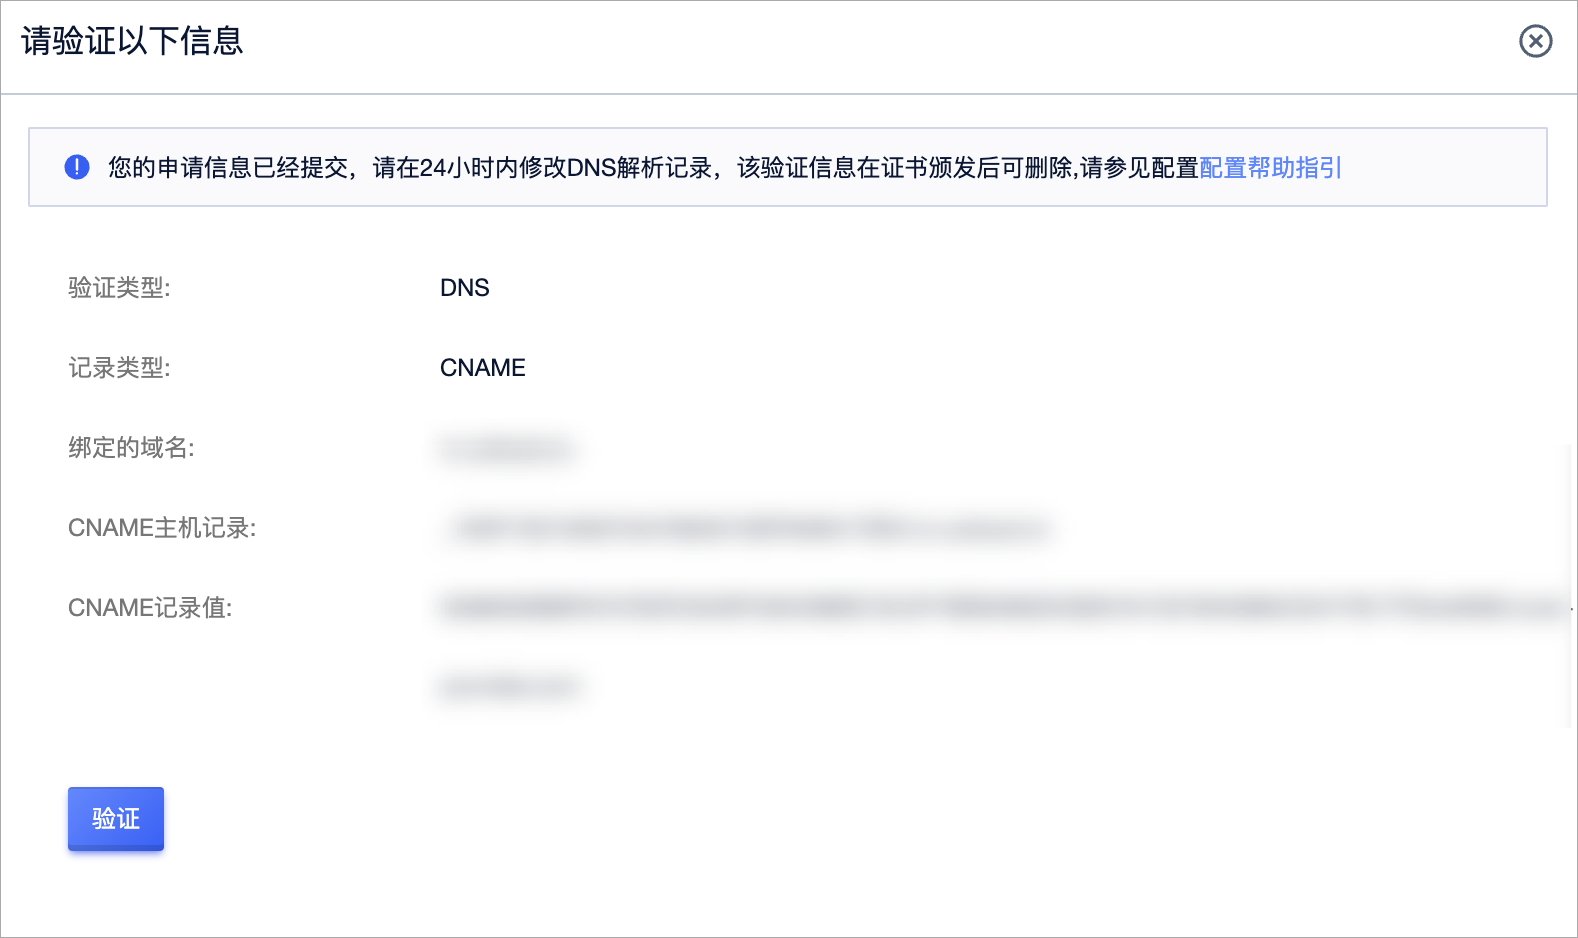
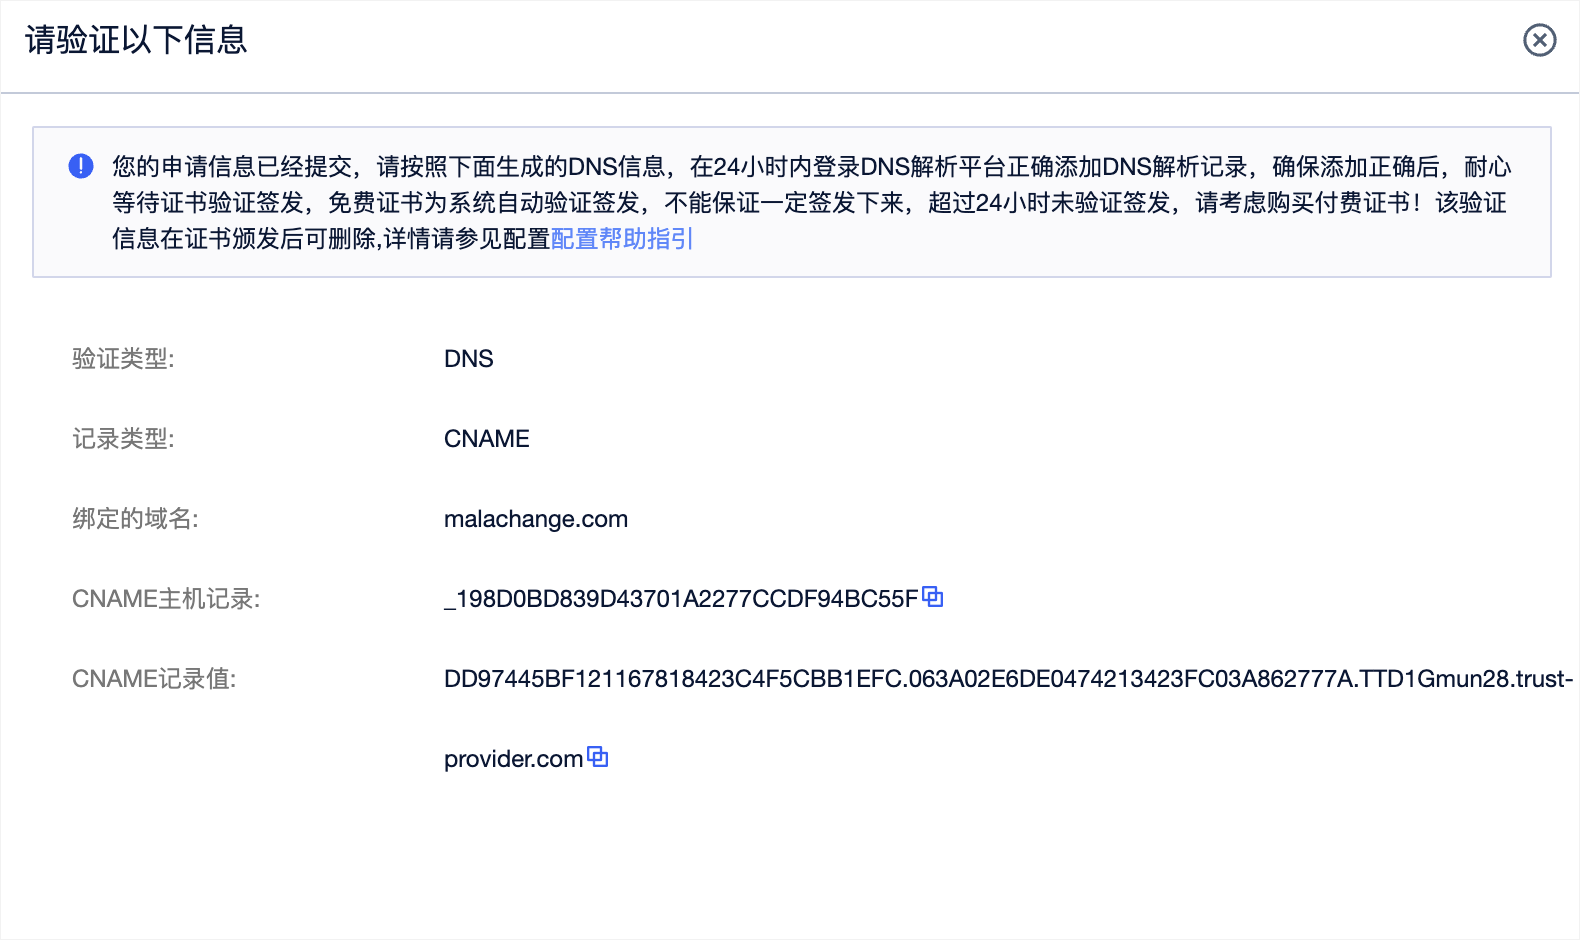
证书验证身份页面更新

diff --git a/operate/fill.md b/operate/fill.md
@@ -24,12 +24,12 @@
 
 **CNAME记录值**：根据域名返回的唯一的CNAME记录值，请到您的DNS服务商处尽快添加CNAME记录。
 
-<wrap em>请尽快于 24 小时内手动设置 DNS 解析记录，验证通过后 20
+<wrap em>请尽快于 24 小时内手动设置 DNS 解析记录，通过后 20
 分钟内即可签发证书，超时将导致申请失败。</wrap>
 
 在DNS服务商比如DNSPOD添加主机记录
 
-![](/images/procedure/cname解析添加.png)
+![](/images/operate/dnsyz2.png)
 
 
 
